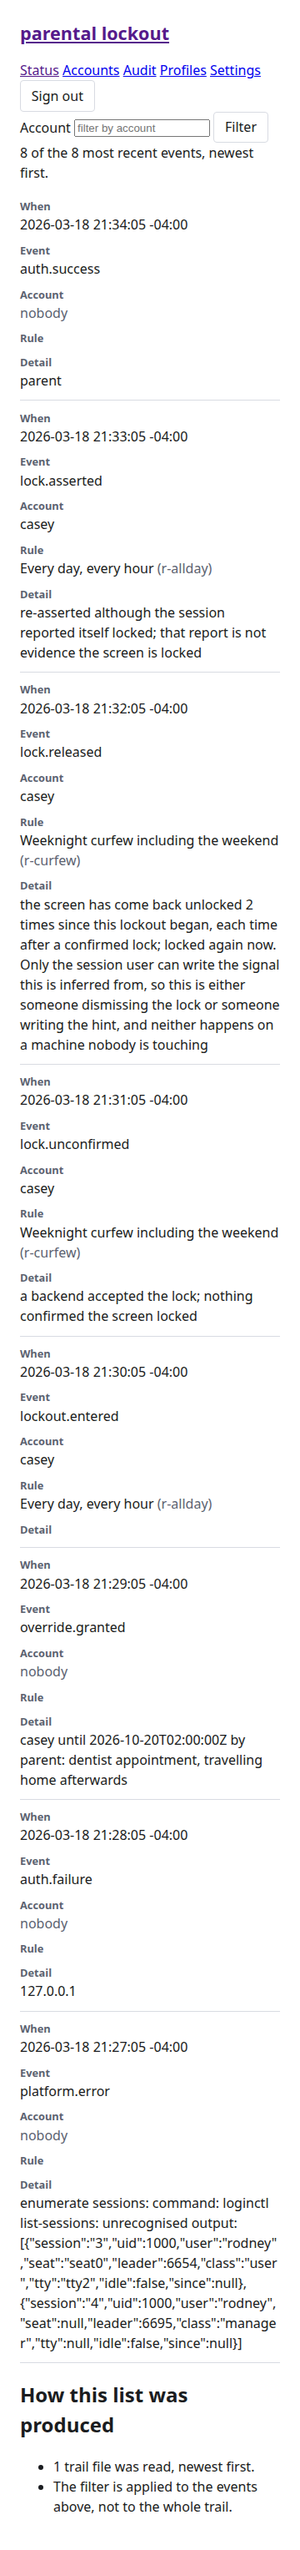
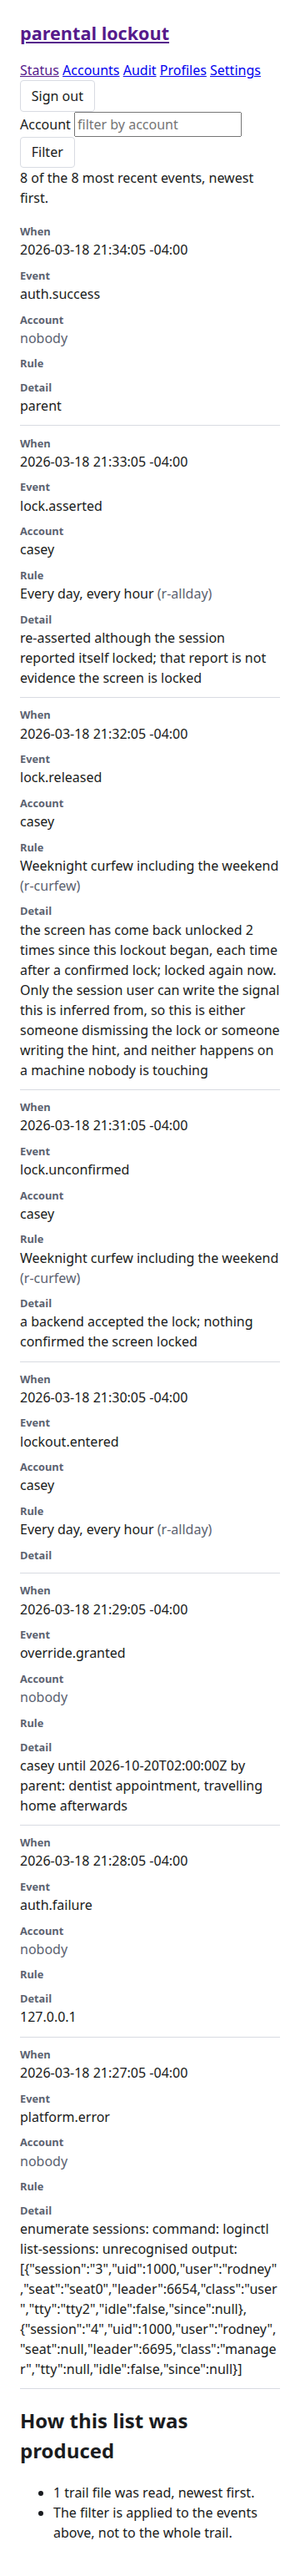
fix(capture): photograph the /audit page this merge actually renders
The merge left `audit.png` certified by three frames and showed none of them: main's was taken on
the template that still prints the reader's zone name, the base branch's on the stylesheet #202 was
opened for. `manifest.py check` said so in its own words -- the committed frame records the state
`['auth.success', '2026-03-18 21:34:05 EDT']` and the driver now declares
`['auth.success', '2026-03-18 21:34:05 -04:00']` for `/audit`, "re-take the frame rather than editing
this entry to match" -- alongside #144's sentence that the frame predates the newest change to its
sources.

So the driver took it. `./pages-setup.sh && ./pages.py` on the merged tree: 6/6 pages fit at 360 px
and 6/6 at 1024 px, and `audit.png` came back `a113c5e4…` (360x3086), matching neither candidate. The
control is the other five: `dashboard`, `users`, `profiles`, `profiles-refused` and `settings`
reproduced main's committed bytes exactly, so the fixture's clock, census, reader zone and declared
state moved no page and the template moved exactly one.

Only that frame and its entry change. The eight frames this run did not photograph keep the digests
and the conditions they already had, and `record` had nothing to say about them on stderr; `lock.png`
and `testlock.png` stay #213's.

Decision: D-0023

diff --git a/DECISIONS.md b/DECISIONS.md
@@ -284,3 +284,54 @@ Two consequences, both deliberate:
   would be.
 - Checkpoint: 39b60988ad0cb2361e98c6ff64a45089860b8475
 - Effect: scripts/mutations/web.json (`W298`, `W299`, `expected_mutants`)
+## D-0023 · The `/audit` frame that belongs to no branch is photographed, not chosen between
+
+- Question: #215 is opened against `fix/audit-row-label`, not `main`, and both of those moved the
+  same artifact. `origin/main` re-photographed `audit.png` against the fixed stylesheet on the
+  template that still prints the reader's zone *name* (`c304336d…`); `fix/audit-row-label`
+  re-recorded it against the template that prints the row's own *offset* on the pre-#202 stylesheet
+  (`a1f19fca…`). Merging both leaves a tree whose `/audit` prints `2026-03-18 21:34:05 -04:00`
+  inside the #218 stylesheet, and no committed PNG of it. Which bytes does the merged branch commit?
+- Options: main's frame | the base branch's frame | either frame with `manifest.py record`
+  re-pointed at it | re-photograph `/audit` against the merged tree and record that run's conditions
+- Chose: re-photograph `/audit` against the merged tree and record that run's conditions
+- Why: the gate answered before the tie-break was reached. `manifest.py check` on the merge commit
+  (`1c5a109`) returned two problems, the first of which quotes the mismatch and names the repair --
+  `audit.png records the state [['auth.success', '2026-03-18 21:34:05 EDT']] and the driver now
+  declares [['auth.success', '2026-03-18 21:34:05 -04:00']] for /audit … re-take the frame rather
+  than editing this entry to match` -- and the second is #144's drift sentence for the same frame.
+  The two committed candidates are the same mistake aimed at opposite sides of the page: main's
+  predates #214's template, so committing it certifies a When cell the merged template cannot
+  render; the base branch's predates #218's stylesheet, so committing it re-files under an evidence
+  filename the exact control rendering #202 was opened for. Re-recording either is worse than wrong,
+  it is silently green: `record` recomputes `sources_rev` and `check` returns early when
+  `recorded == current`, which is the laundering D-0015 already put on the record.
+  The measurement then settled what the refusals implied. `./pages-setup.sh && ./pages.py` on the
+  merged tree came back `6/6 pages fit at 360 px` and `6/6 … at 1024 px`, and `audit.png` arrived as
+  `a113c5e4…` -- `360x3086`, the same canvas as main's frame and different pixels -- matching
+  neither candidate, so the page this merge renders had genuinely never been photographed. What
+  proves the re-take faithful rather than merely new is the other five: `dashboard`, `users`,
+  `profiles`, `profiles-refused` and `settings` came back **byte-identical** to main's committed
+  files (`b2c90782…`, `55120c43…`, `48e10e29…`, `17f76100…`, `111bcbe1…`), so the merged fixture's
+  clock, census, reader zone and declared state moved none of them and only the template moved the
+  sixth. The tie-break order agrees: nothing separates on `go.mod` (neither side adds a dependency)
+  or on breadth (one PNG either way); "refuses rather than proceeds" picks the re-take, because it
+  is the only option under which the driver's declared-state refusal is live over the committed
+  bytes; and the surrounding code already re-takes rather than re-labels -- D-0014 for a stylesheet
+  change, D-0015 for exactly this conflicted-frame shape, `ac20479` for the re-take itself.
+
+  What this costs, stated rather than glossed. One frame is re-committed, so the other five
+  page-fixture frames keep main's bytes *and* the `capture` block #215 recorded for the bytes they
+  already had -- acceptable only because the fixture's own declaration did not move between the two
+  runs (`fixture.sh` and `pages-setup.sh` changed in comments on both branches, and `record` said
+  nothing on stderr about the eight it did not photograph), and it is the kind of carry-over that
+  went wrong once before on this very file. `lock.png` and `testlock.png` keep their blocks and stay
+  #213's: not re-taken here, because re-taking them locks the capturing machine's session for real.
+  `sources_rev` for `/audit` now names the merge commit `1c5a109`, because that is the newest commit
+  `git log` will show for `audit.tmpl` -- a merge, not the commit that wrote the template, and a
+  reader looking for the offset change still wants `c82baa6`. The header's `head` is the checkpoint
+  below, which is what `record` can see at the moment it writes.
+- Checkpoint: cfad6e5cae88bfb2ffe96ec8191775926008aeed
+- Effect: docs/screenshots/360/audit.png (re-photographed against the merged tree),
+  docs/screenshots/360/manifest.json (that entry's `png_sha256`, its declared-state cell `EDT` →
+  `-04:00`, its `sources_rev`, and the file header), DECISIONS.md
